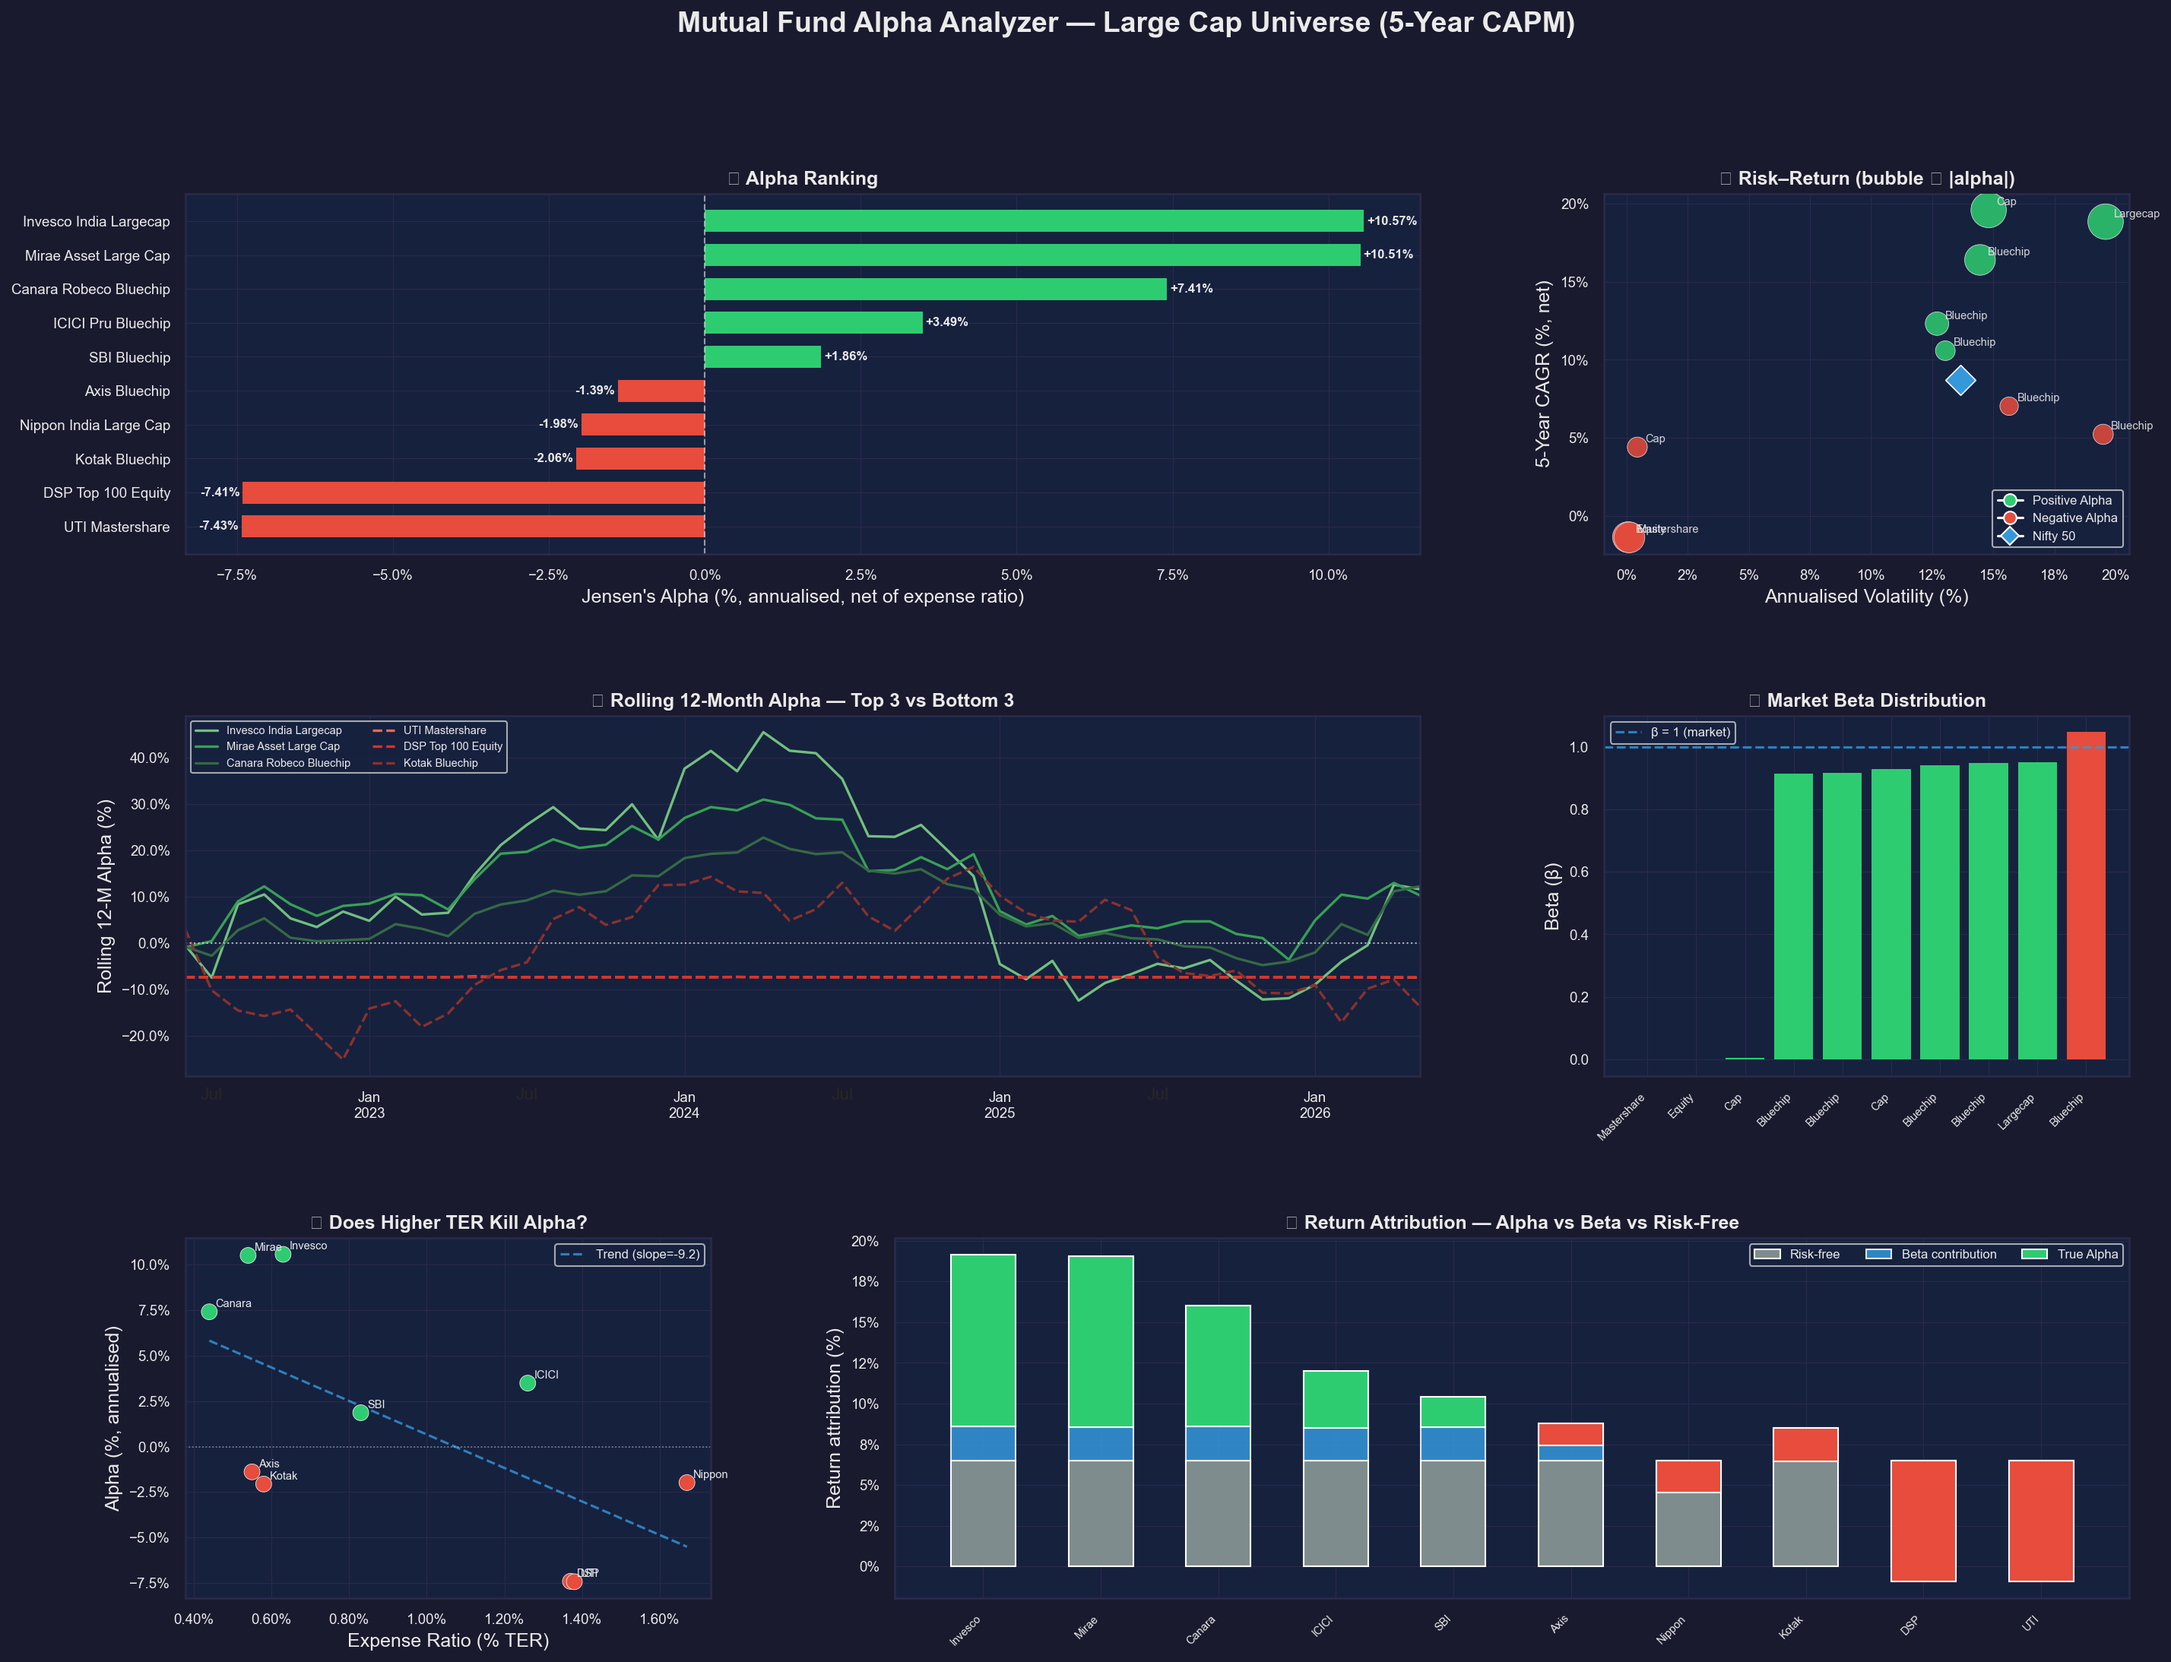
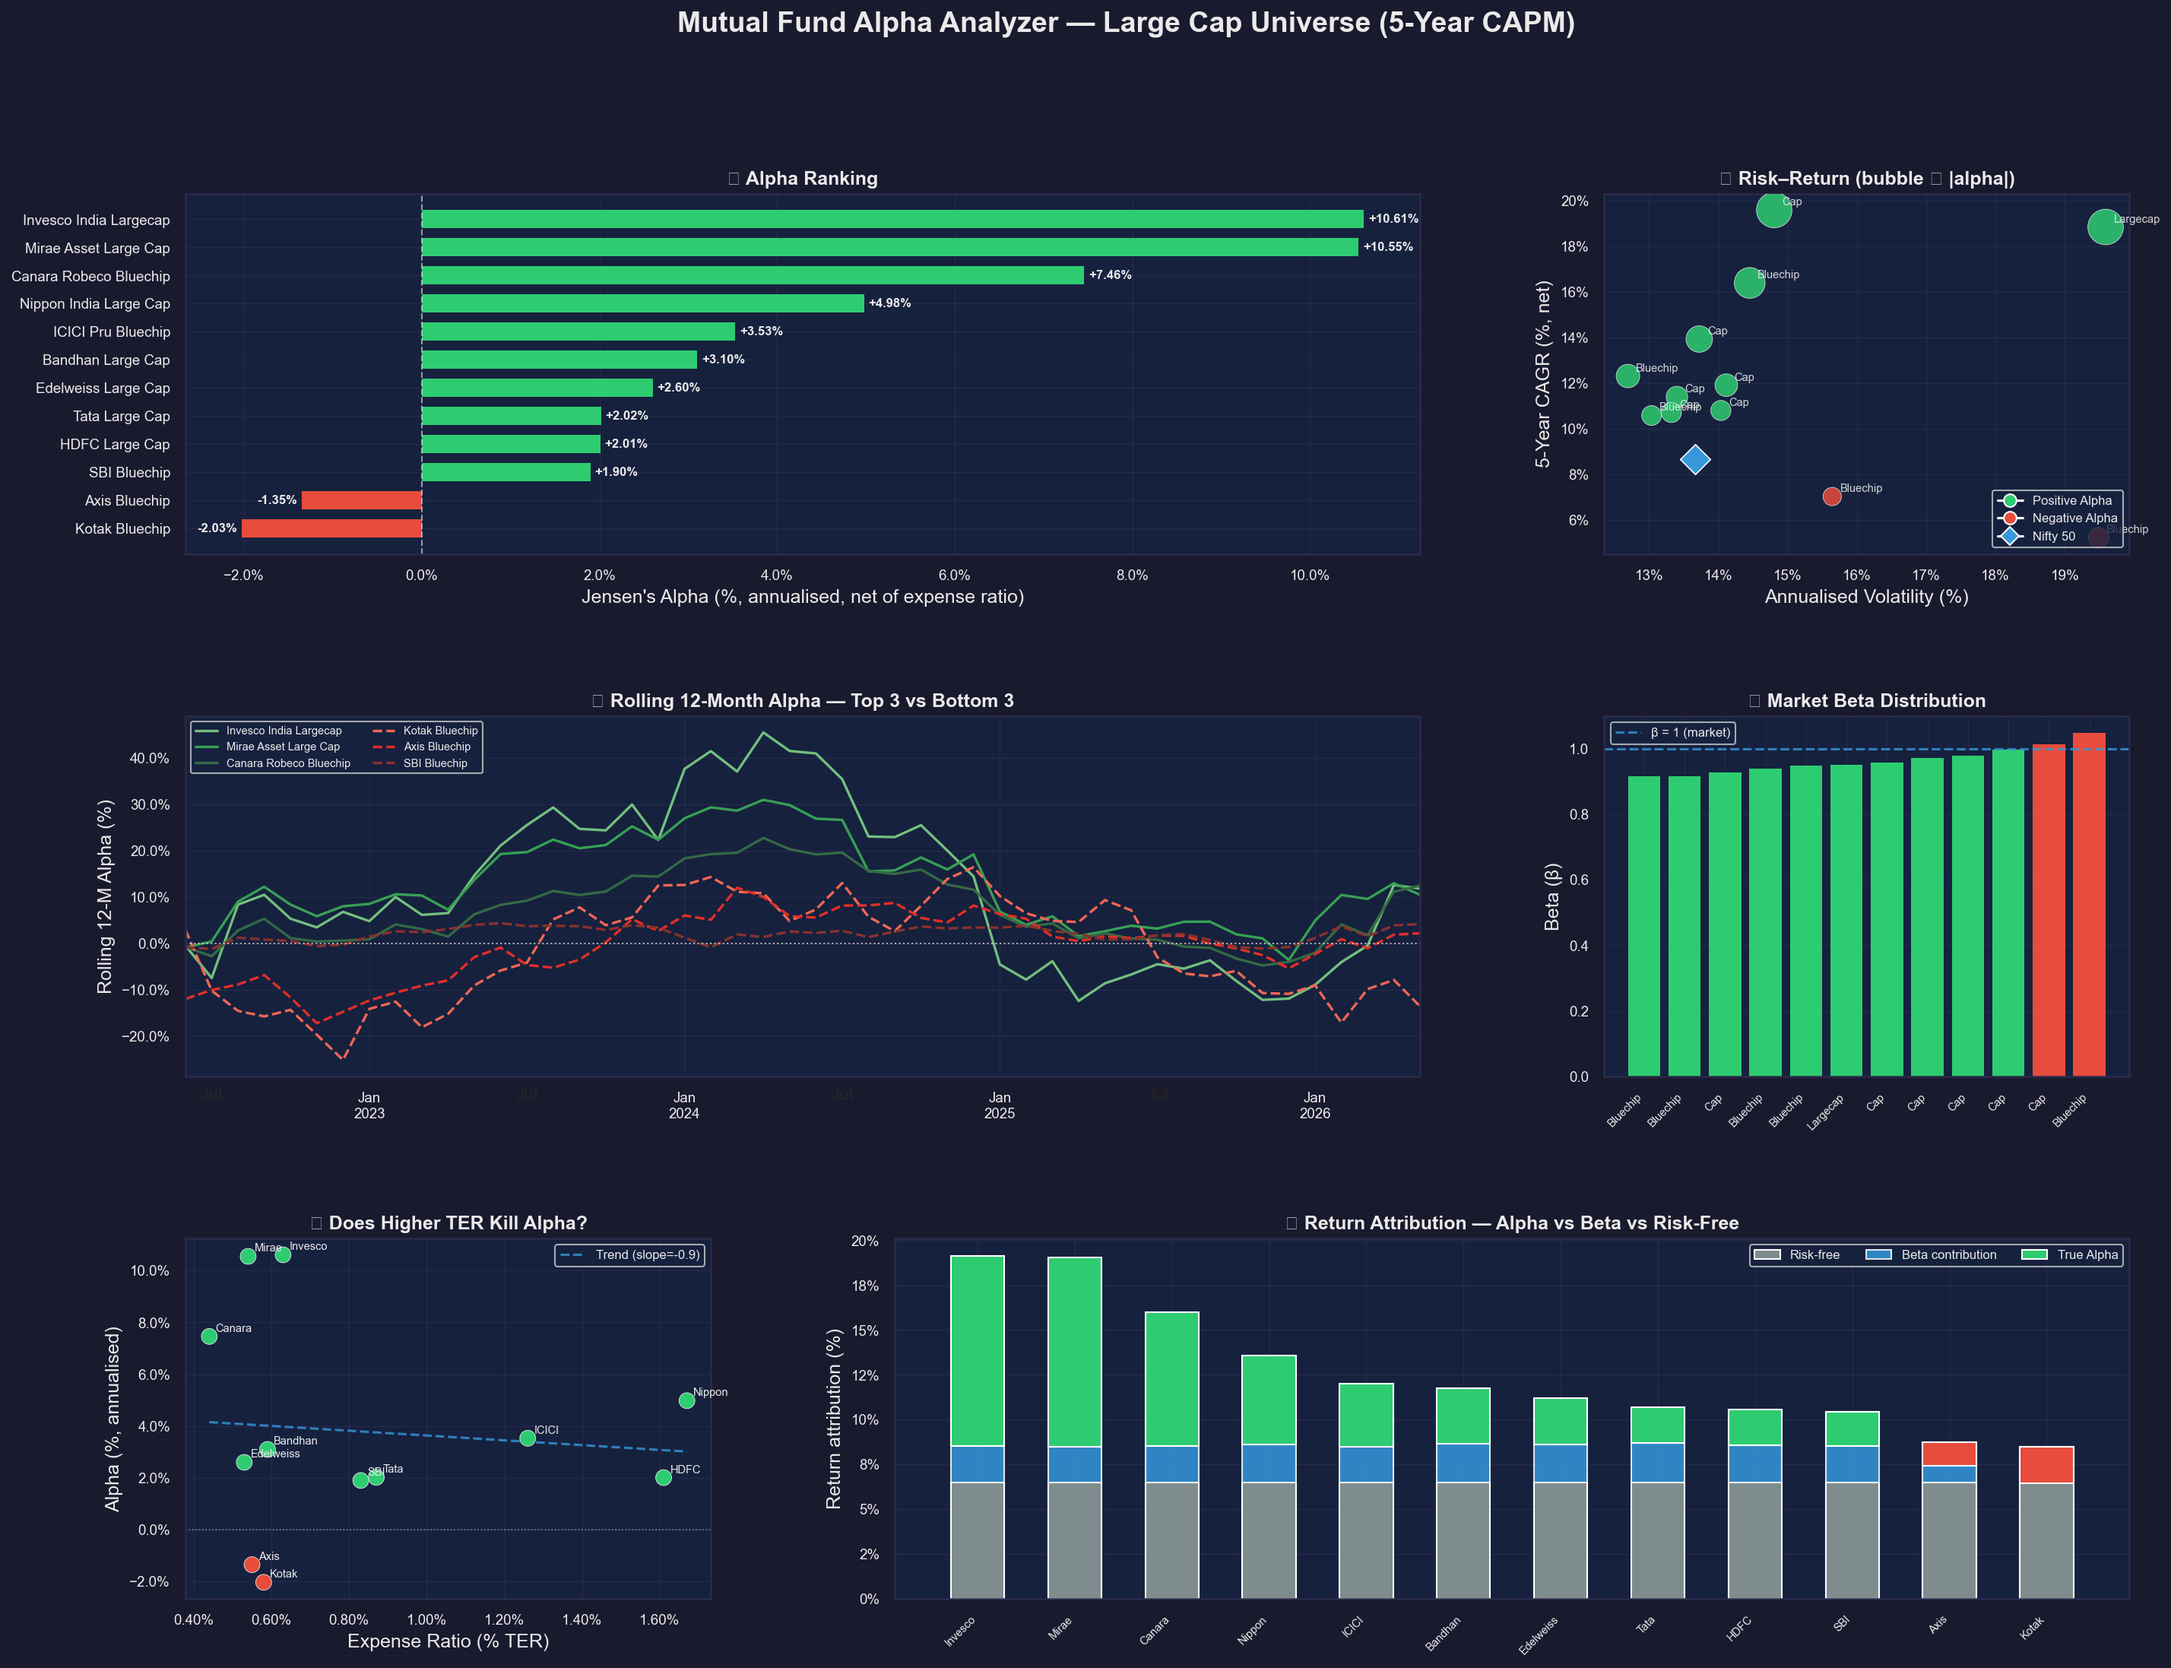
Fix scheme codes for Bandhan, Edelweiss, Nippon, HDFC, Tata

diff --git a/data_fetcher.py b/data_fetcher.py
@@ -19,16 +19,16 @@ logger = logging.getLogger(__name__)
 LARGE_CAP_FUNDS = {
     "Mirae Asset Large Cap":        (118989, 0.54),
     "Axis Bluechip":                (120503, 0.55),
-    "HDFC Top 100":                 (119533, 1.61),
     "ICICI Pru Bluechip":           (120586, 1.26),
     "SBI Bluechip":                 (119598, 0.83),
-    "Nippon India Large Cap":       (118701, 1.67),
     "Kotak Bluechip":               (120594, 0.58),
-    "UTI Mastershare":              (552, 1.38),
-    "Franklin India Bluechip":      (103504, 1.74),
     "Canara Robeco Bluechip":       (120599, 0.44),
-    "DSP Top 100 Equity":           (119274, 1.37),
     "Invesco India Largecap":       (120828, 0.63),
+    "Bandhan Large Cap":          (118479, 0.59),
+    "Edelweiss Large Cap":         (118617, 0.53),
+    "Nippon India Large Cap":      (118632, 1.67),
+    "HDFC Large Cap":             (119018, 1.61),
+    "Tata Large Cap":             (119160, 0.87),
 }
 
 NIFTY_TICKER   = "^NSEI"
